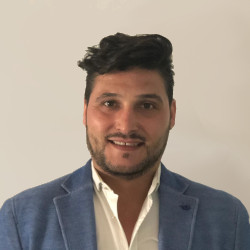
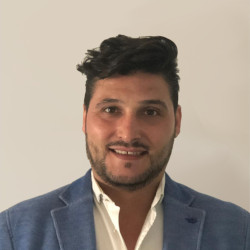
jm y jz

diff --git a/_site/index.html b/_site/index.html
@@ -490,7 +490,7 @@
 		
 			        <div class="col-sm-4">
           <div class="team-member">
-            <img class="mx-auto rounded-circle" src="img/equipo/an.jpg" alt="Joshua Zapata Intermediario">
+            <img class="mx-auto rounded-circle" src="img/equipo/jz.jpg" alt="Joshua Zapata Intermediario">
             <h4>Joshua Zapata</h4>
             <p class="text-muted">Intermediario</p>
             <ul class="list-inline social-buttons">

diff --git a/_equipo/jz.md b/_equipo/jz.md
@@ -5,6 +5,6 @@ seccion: Intermediarios
 nombre: Joshua Zapata
 funcion: Intermediario
 e-mail: j.zapata@soccerintagents.com
-foto: an.jpg
+foto: jz.jpg
 ---
 Currículum...
